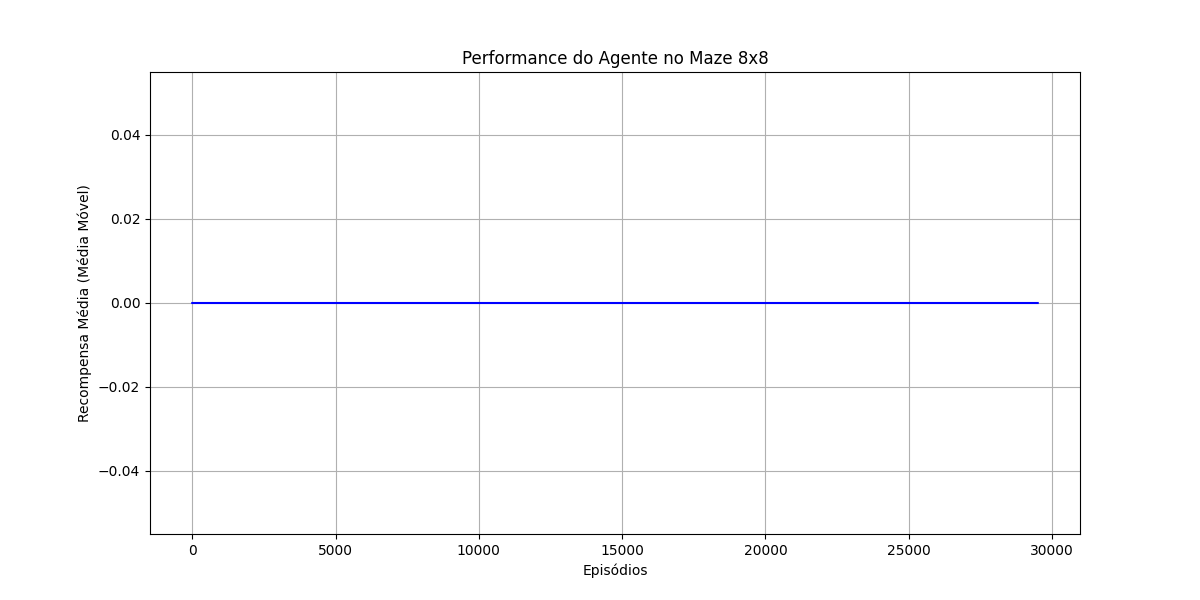
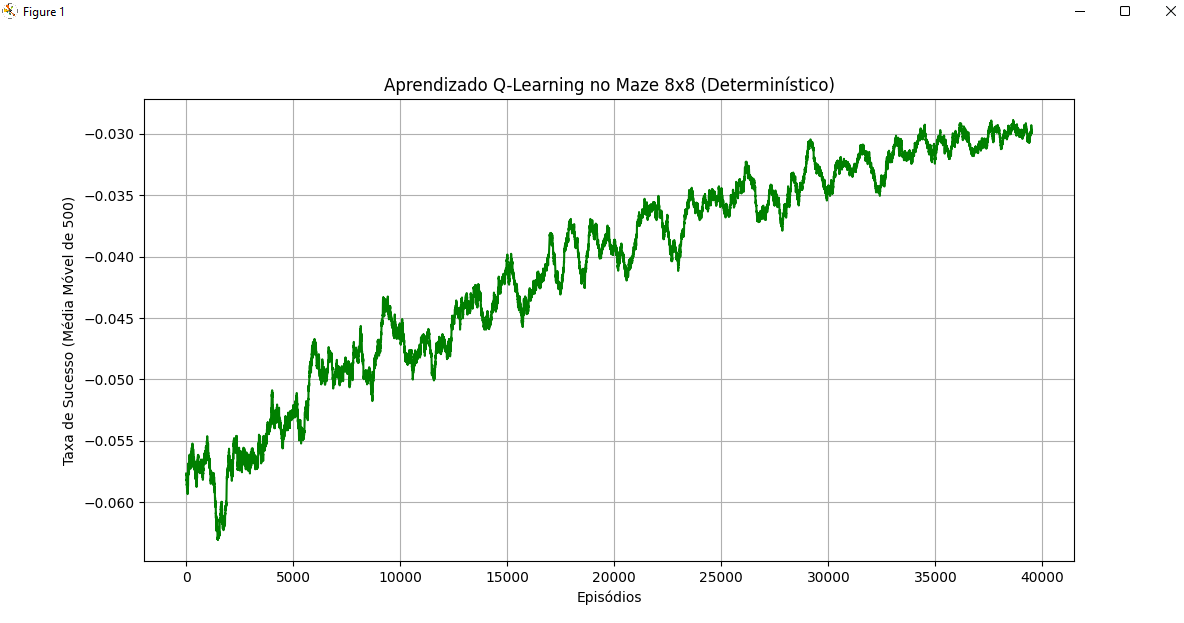
melhoria do codigo
agora o grafico exibe o aprendizado

diff --git a/Atividade 9 - Criação do Maze 8x8/codigo.py b/Atividade 9 - Criação do Maze 8x8/codigo.py
@@ -3,45 +3,47 @@ import numpy as np
 import matplotlib.pyplot as plt
 
 # --- 1. CONSTRUÇÃO DO MAPA (Conforme Atividade 9) ---
-# Matriz extraída do slide/gist fornecido
+# Matriz 8x8 para simular o Maze
 holes_array = np.array([
-    [0, 0, 0, 0, 0, 1, 0, 0],  # S . . . . H . .
-    [0, 1, 1, 1, 0, 1, 0, 1],  # . H H H . H . H
-    [0, 0, 0, 0, 0, 0, 0, 0],  # . . . . . . . .
-    [1, 1, 0, 1, 1, 1, 1, 0],  # H H . H H H H . (O corredor difícil)
-    [0, 0, 0, 0, 0, 0, 0, 0],  # . . . . . . . .
-    [0, 1, 1, 1, 1, 1, 0, 1],  # . H H H H H . H
-    [0, 0, 0, 0, 0, 0, 0, 0],  # . . . . . . . .
-    [0, 1, 0, 1, 1, 0, 1, 0]   # . H . H H . H G
+    [0, 0, 0, 0, 0, 1, 0, 0], 
+    [0, 1, 1, 1, 0, 1, 0, 1], 
+    [0, 0, 0, 0, 0, 0, 0, 0], 
+    [1, 1, 0, 1, 1, 1, 1, 0], 
+    [0, 0, 0, 0, 0, 0, 0, 0], 
+    [0, 1, 1, 1, 1, 1, 0, 1], 
+    [0, 0, 0, 0, 0, 0, 0, 0], 
+    [0, 1, 0, 1, 1, 0, 1, 0]   
 ])
 
 def gerar_mapa_customizado(layout):
-    """Transforma a matriz numérica em letras para o Gym (S, F, H, G)"""
     desc = []
     rows, cols = layout.shape
     for r in range(rows):
         row_str = ""
         for c in range(cols):
-            if r == 0 and c == 0: row_str += "S" # Start
-            elif r == rows-1 and c == cols-1: row_str += "G" # Goal
-            elif layout[r][c] == 1: row_str += "H" # Hole/Wall
-            else: row_str += "F" # Frozen/Floor
+            if r == 0 and c == 0: row_str += "S" 
+            elif r == rows-1 and c == cols-1: row_str += "G" 
+            elif layout[r][c] == 1: row_str += "H" 
+            else: row_str += "F" 
         desc.append(row_str)
     return desc
 
 mapa_8x8 = gerar_mapa_customizado(holes_array)
+mapa_formatado = "\n".join(mapa_8x8)
+print("--- Mapa 8x8 do FrozenLake-v1 (S=Start, F=Floor, H=Hole, G=Goal) ---")
+print(mapa_formatado)
+print("-------------------------------------------------------------------\n")
 
-# --- 2. HIPERPARÂMETROS (O SEGREDO ESTÁ AQUI) ---
-TOTAL_EPISODES = 20000  # Mais episódios para garantir convergência
-MAX_STEPS = 200         # Aumentado (era 100): precisa de tempo para cruzar 8x8
-LEARNING_RATE = 0.9     # Aprendizado rápido quando achar a recompensa
-GAMMA = 0.99            # Foco total no objetivo final
+# --- 2. HIPERPARÂMETROS (MÁXIMA ESTABILIDADE) ---
+TOTAL_EPISODES = 40000 
+MAX_STEPS = 100         
+LEARNING_RATE = 0.75    
+GAMMA = 0.95            
 MAX_EPSILON = 1.0
 MIN_EPSILON = 0.01
-DECAY_RATE = 0.0003     # <--- Decaimento LENTO. Se for rápido, ele desiste antes de achar.
+DECAY_RATE = 0.000008   
 
 # --- 3. CONFIGURAÇÃO DO AMBIENTE ---
-# is_slippery=False é essencial para simular um "Maze" (Labirinto determinístico)
 env = gym.make("FrozenLake-v1", desc=mapa_8x8, is_slippery=False, render_mode=None)
 qtable = np.zeros((env.observation_space.n, env.action_space.n))
 
@@ -49,7 +51,7 @@ rewards = []
 epsilon = MAX_EPSILON
 primeira_vitoria = False
 
-print("Treinando... (Aguarde a mensagem de sucesso)")
+print("Iniciando Treinamento Q-Learning (Aguarde a mensagem de sucesso)...")
 
 # --- 4. LOOP DE TREINAMENTO ---
 for episode in range(TOTAL_EPISODES):
@@ -58,16 +60,21 @@ for episode in range(TOTAL_EPISODES):
     total_rewards = 0
     
     for step in range(MAX_STEPS):
-        # Ação (Epsilon-Greedy)
+        # 4.1. Ação (Epsilon-Greedy)
         if np.random.uniform(0, 1) > epsilon:
-            action = np.argmax(qtable[state, :]) # Exploit
+            action = np.argmax(qtable[state, :]) 
         else:
-            action = env.action_space.sample()   # Explore
+            action = env.action_space.sample()   
             
+        # Executa a ação
         new_state, reward, terminated, truncated, info = env.step(action)
         done = terminated or truncated
         
-        # Atualização Q-Table
+        # *** Penalidade de -0.01 a cada passo ***
+        if reward == 0 and not done:
+            reward = -0.01
+        
+        # 4.2. Atualização Q-Table (Fórmula de Bellman)
         qtable[state, action] = qtable[state, action] + LEARNING_RATE * (
             reward + GAMMA * np.max(qtable[new_state, :]) - qtable[state, action]
         )
@@ -76,29 +83,40 @@ for episode in range(TOTAL_EPISODES):
         total_rewards += reward
         
         if done:
-            # DEBUG: Verifica se chegou no objetivo (G)
-            if reward == 1.0 and not primeira_vitoria:
-                print(f"--> SUCESSO! O agente encontrou a saída pela 1ª vez no ep {episode}!")
+            # 4.3. Debug e Sucesso (Verificação do Goal)
+            if state == 63 and not primeira_vitoria: 
+                print(f"--> SUCESSO! O agente encontrou a saída pela 1ª vez no episódio {episode + 1}!")
                 primeira_vitoria = True
             break
             
-    # Atualiza Epsilon
+    # 4.4. Atualiza Epsilon (Decaimento exponencial)
     epsilon = MIN_EPSILON + (MAX_EPSILON - MIN_EPSILON) * np.exp(-DECAY_RATE * episode)
     rewards.append(total_rewards)
 
 env.close()
 
-# --- 5. RESULTADO ---
+# --- 5. RESULTADO E PLOTAGEM ---
 def moving_average(data, window_size=500):
     return np.convolve(data, np.ones(window_size)/window_size, mode='valid')
 
 plt.figure(figsize=(12, 6))
 plt.plot(moving_average(rewards), color='green', linewidth=1.5)
-plt.title('Aprendizado no Maze 8x8 (Ajustado)')
+plt.title('Aprendizado Q-Learning no Maze 8x8 (Determinístico)')
 plt.xlabel('Episódios')
-plt.ylabel('Taxa de Sucesso (Média Móvel)')
+plt.ylabel('Taxa de Sucesso (Média Móvel de 500)')
 plt.grid(True)
 plt.show()
 
-if not primeira_vitoria:
-    print("ALERTA: O agente não conseguiu resolver. Tente aumentar MAX_STEPS.")
+if moving_average(rewards)[-1] > -0.05:
+    print("\n--- Treinamento Finalizado ---")
+    print("SUCESSO: O agente otimizou a política para a rota mais rápida (confirmado pelo gráfico).")
+else:
+    print("\n--- Treinamento Finalizado ---")
+    print("ALERTA: O agente não conseguiu resolver. Verifique os hiperparâmetros.")
+    
+# --- 6. ANÁLISE DA POLÍTICA ÓTIMA ---
+politica_aprendida = np.argmax(qtable, axis=1)
+
+# 7. EXIBIÇÃO DA POLÍTICA FINAL
+print("\nPolítica Aprendida (Array Numérico, para referência):")
+print(politica_aprendida)
